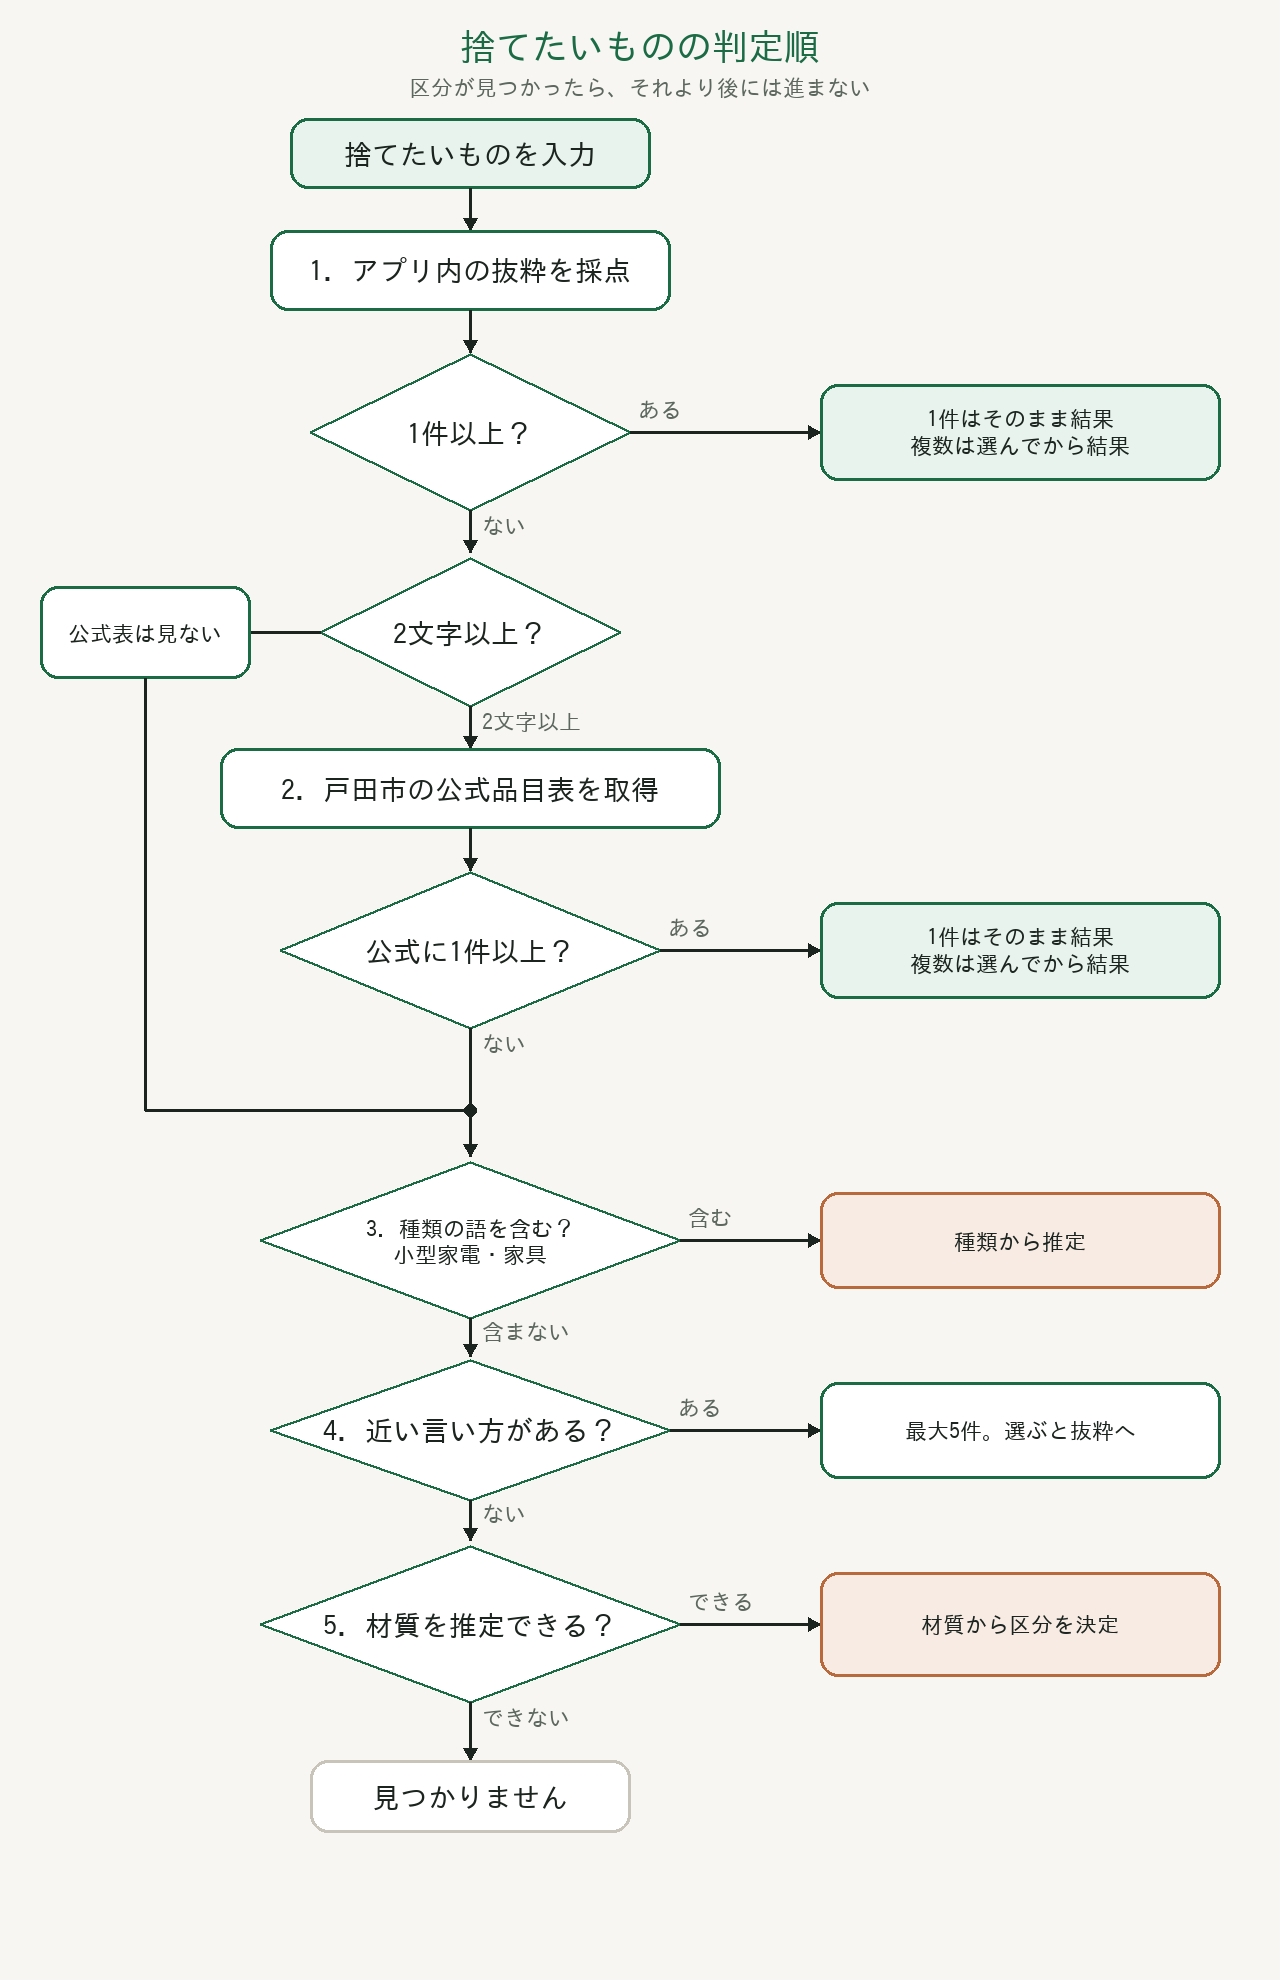
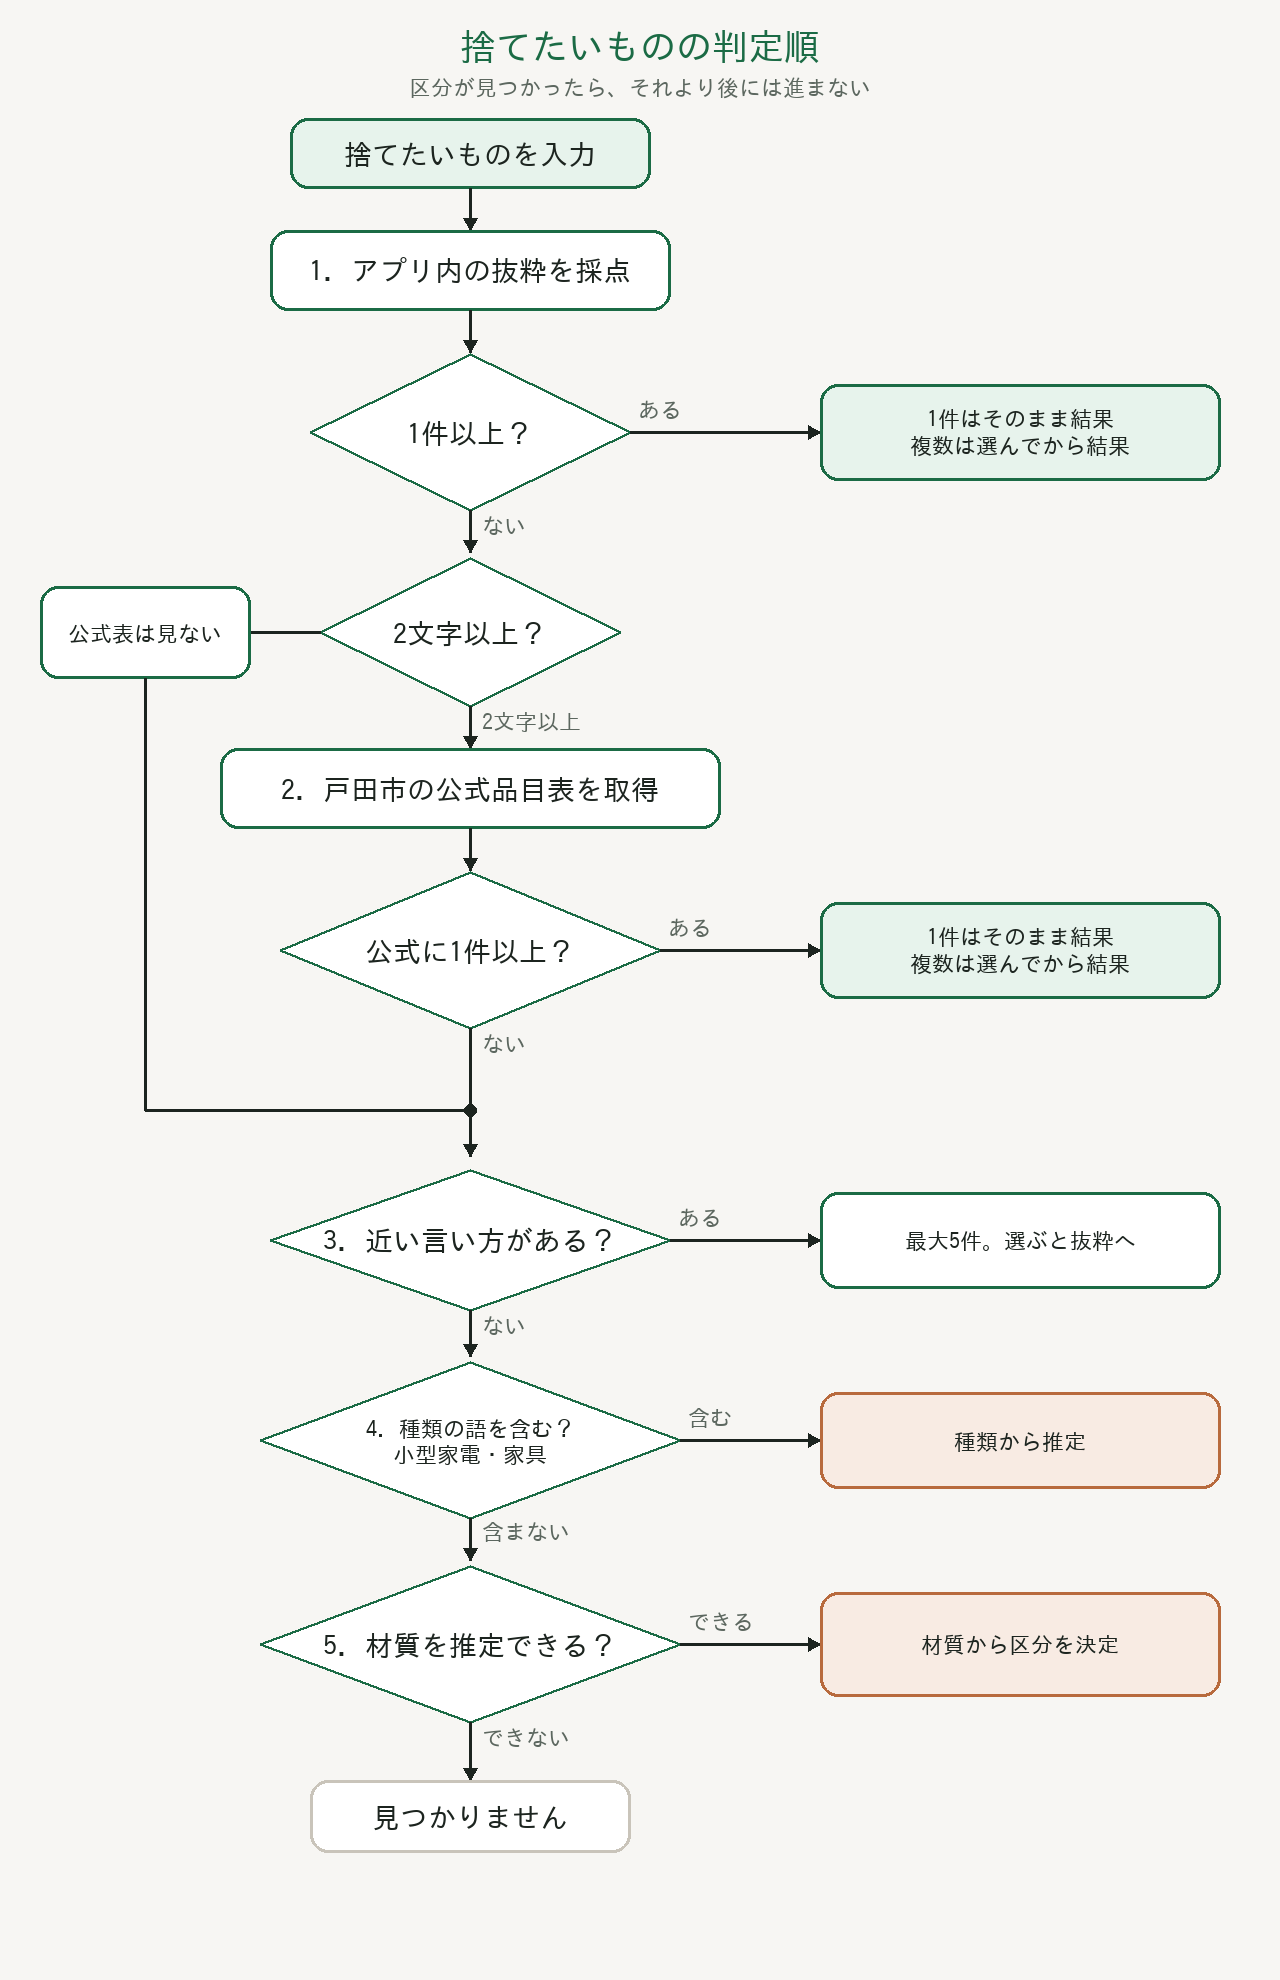
近い言い方を種類の推定より先にする。
候補があるあいだは、種類からも材質からも決めない。

diff --git a/src/routes/index.tsx b/src/routes/index.tsx
@@ -86,8 +86,8 @@ function Home() {
   }, [needOfficial, query]);
 
   const guess = useMemo(
-    () => (query.trim() && matches.length === 0 ? inferType(query) : null),
-    [query, matches.length],
+    () => (query.trim() && matches.length === 0 && suggestions.length === 0 ? inferType(query) : null),
+    [query, matches.length, suggestions.length],
   );
   const material = useMemo(
     () =>

diff --git a/README.md b/README.md
@@ -22,11 +22,11 @@
 
 1. アプリ内の抜粋
 2. 戸田市の公式品目表
-3. 種類からの推定
-4. 近い言い方
+3. 近い言い方
+4. 種類からの推定
 5. 材質からの推定
 
-1文字の入力は2段目を飛ばして3段目へ進みます。公式表の取得に失敗したときも、3段目へ進みます。3で決まらなければ4、4でも候補がなければ5です。近い言い方を選ぶと、選んだ名前で1段目から照合し直します。
+1文字の入力は2段目を飛ばして3段目へ進みます。公式表の取得に失敗したときも、3段目へ進みます。3で候補があれば4には進みません。候補がなければ4、4で決まらなければ5です。近い言い方を選ぶと、選んだ名前で1段目から照合し直します。
 
 ![捨てたいものの判定順](docs/match-flow.png)
 
@@ -73,9 +73,19 @@ https://www.city.toda.saitama.jp/soshiki/212/kankyo-cl-gomi-list.html
 
 1件なら結果を出します。複数なら選んでもらいます。画面には、戸田市の品目表から取った旨を書きます。
 
-### 3. 種類からの推定
+### 3. 近い言い方
 
-公式の品目表にもないとき、または公式表を見ていないとき（1文字、取得失敗）に、入力が次の語を含むかを見ます。長く一致した語を優先します。品目ごとの先行分岐はありません。
+1と2で区分が決まらないとき、抜粋の品目から候補を出します。入力が3文字未満なら候補はありません。
+
+1. 入力を3文字ずつに切り、同じ3文字を持つ品目だけを残します。
+2. 品目名と別名について、入力との最長の共通部分が3文字以上のものを残します。
+3. 共通部分が長い順に、最大5件出します。
+
+候補を選ぶと、その名前で1段目の抜粋から照合し直します。候補があるあいだは、種類の推定も材質の推定も出しません。
+
+### 4. 種類からの推定
+
+近い言い方が0件のとき、入力が次の語を含むかを見ます。長く一致した語を優先します。
 
 | 種類 | 語 |
 | --- | --- |
@@ -86,23 +96,13 @@ https://www.city.toda.saitama.jp/soshiki/212/kankyo-cl-gomi-list.html
 
 - 40cm未満は、もやさないごみの日に本体だけを透明な袋へ入れ、赤いかごへ出します。
 - 1辺が40cm以上は粗大ごみです。申込み案内も同じ画面に出ます。
-- 「種類から『小型家電』と推定します」と表示し、戸田市の品目表にその名前がないことも示します。
+- 「種類から『小型家電』と推定します」と表示し、戸田市の品目表にこの名前がないことも示します。
 
 これは品目表の一致ではありません。
 
-### 4. 近い言い方
-
-ここまでで区分が決まらないときだけ、抜粋の品目から候補を出します。推定が当たったときは、この段は出しません。入力が3文字未満なら候補はありません。
-
-1. 入力を3文字ずつに切り、同じ3文字を持つ品目だけを残します。
-2. 品目名と別名について、入力との最長の共通部分が3文字以上のものを残します。
-3. 共通部分が長い順に、最大5件出します。
-
-候補を選ぶと、その名前で1段目の抜粋から照合し直します。候補があるあいだは、材質では決めません。
-
 ### 5. 材質からの推定
 
-4段目で候補が0件のときだけ、入力の文言から材質を推定して区分を一つ決めます。うちわ・団扇・扇子だけの特例ではありません。4段目まで決まらなかった品目すべてが対象です。
+4段目で種類が決まらないときだけ、入力の文言から材質を推定して区分を一つ決めます。うちわ・団扇・扇子だけの特例ではありません。そこまで決まらなかった品目すべてが対象です。
 
 1. 入力に材質の語があれば、その材質で決めます。長い語を優先します。
 2. 材質の語がなければ、その品目のふつうの材質を推定します。入力に材質の語もあるときは、長いほうを使います。
